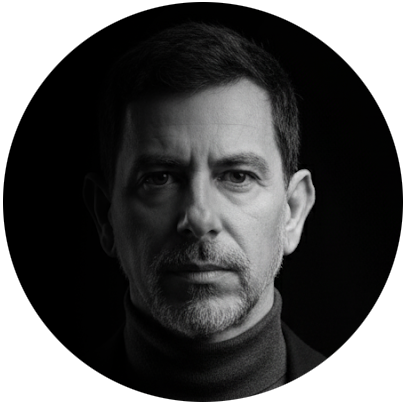
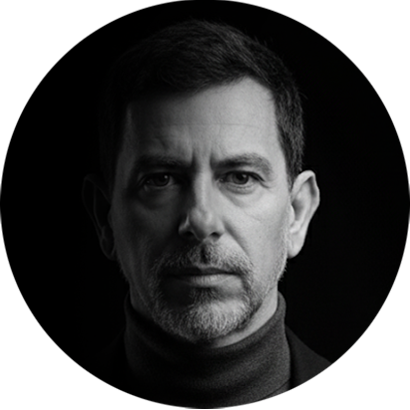
Last changesSaved-By: German Baher <

diff --git a/html-assignment/css/style.css b/html-assignment/css/style.css
@@ -19,11 +19,22 @@ body {
   color: var(--text-color);
 }
 
+nav a {
+  color: var(--brand-red);
+  text-decoration: none;
+  background-color: var(--grey);
+  padding: 4px 8px;
+  border: 1px solid var(--brand-red);
+  border-radius: 4px;
+}
+nav a:hover {
+  text-decoration: underline;
+}
 a {
   color: var(--brand-red);
   text-decoration: none;
-}
 
+}
 a:hover {
   text-decoration: underline;
 }
@@ -78,7 +89,8 @@ nav a {
   flex: 1 1 260px;
 }
 
-.text h1 {
+.site-title {    
+  color: var(--brand-red);
   margin-top: 0;
   margin-bottom: 0.5rem;
   font-size: 2rem;
@@ -95,15 +107,12 @@ nav a {
   text-align: center;
 }
 
-.photo img {
-  max-width: 220px;
-  height: auto;
-  border-radius: 50%;
-  display: block;
-  margin: 0 auto;
+#my-image img {
+ box-shadow: 0 0 2px black;
+ border-radius: 50%;
+   margin: 0;
+   padding: 0;
 }
-
-
 
 .section-block {
   margin-top: 2rem;
@@ -127,12 +136,14 @@ nav a {
 }
 
 .hobbies-list {
-  list-style: disc;
+  list-style: square;
   padding-left: 1.2rem;
   color: #d5d5d5;
 }
 
-
+.hobbies-list li:nth-child(odd) {
+  background-color: #606161;
+}
 h1 {
   margin-top: 1rem;
   margin-bottom: 0.5rem;

diff --git a/html-assignment/index.html b/html-assignment/index.html
@@ -23,13 +23,12 @@
   <main>
     <section class="hero">
       <div class="text">
-        <h1>German Baher</h1>
+        <h1 class="site-title">German Baher</h1>
         <p>Brand strategist, designer, and creativity consultant.</p>
         <p>I help brands grow with purpose, clarity, and intelligent design.</p>
       </div>
 
-      <div class="photo">
-        <!-- YOUR PORTRAIT (SQUARE VERSION) -->
+      <div id="my-image">
         <img
           src="images/german-baher-portrait-square.png"
           alt="Portrait of German Baher"
@@ -44,6 +43,8 @@
       <ul class="hobbies-list">
         <li>Outdoor photography and storytelling.</li>
         <li>Cycling and exploring new cities.</li>
+        <li>Storytelling.</li>
+        <li>Read a book.</li>
       </ul>
     </section>
 
